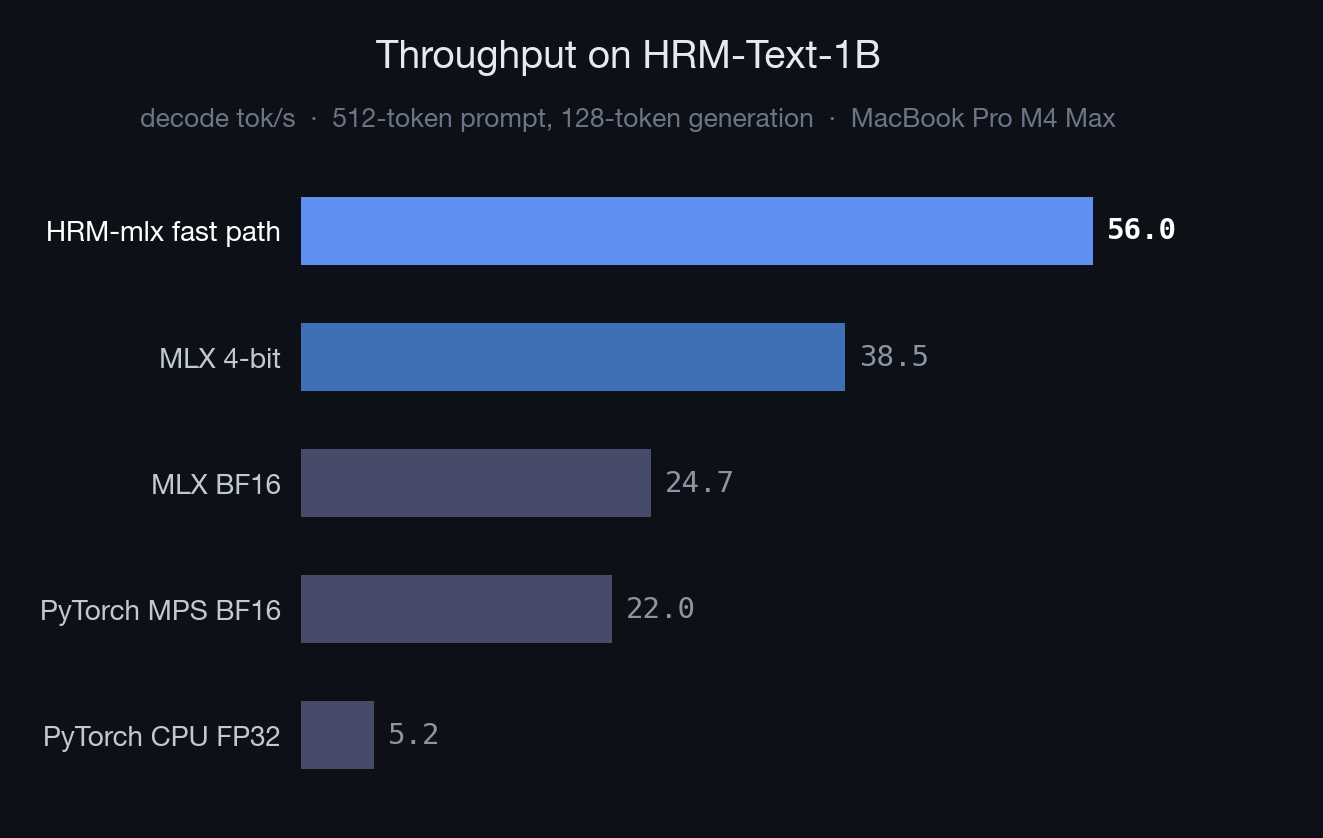
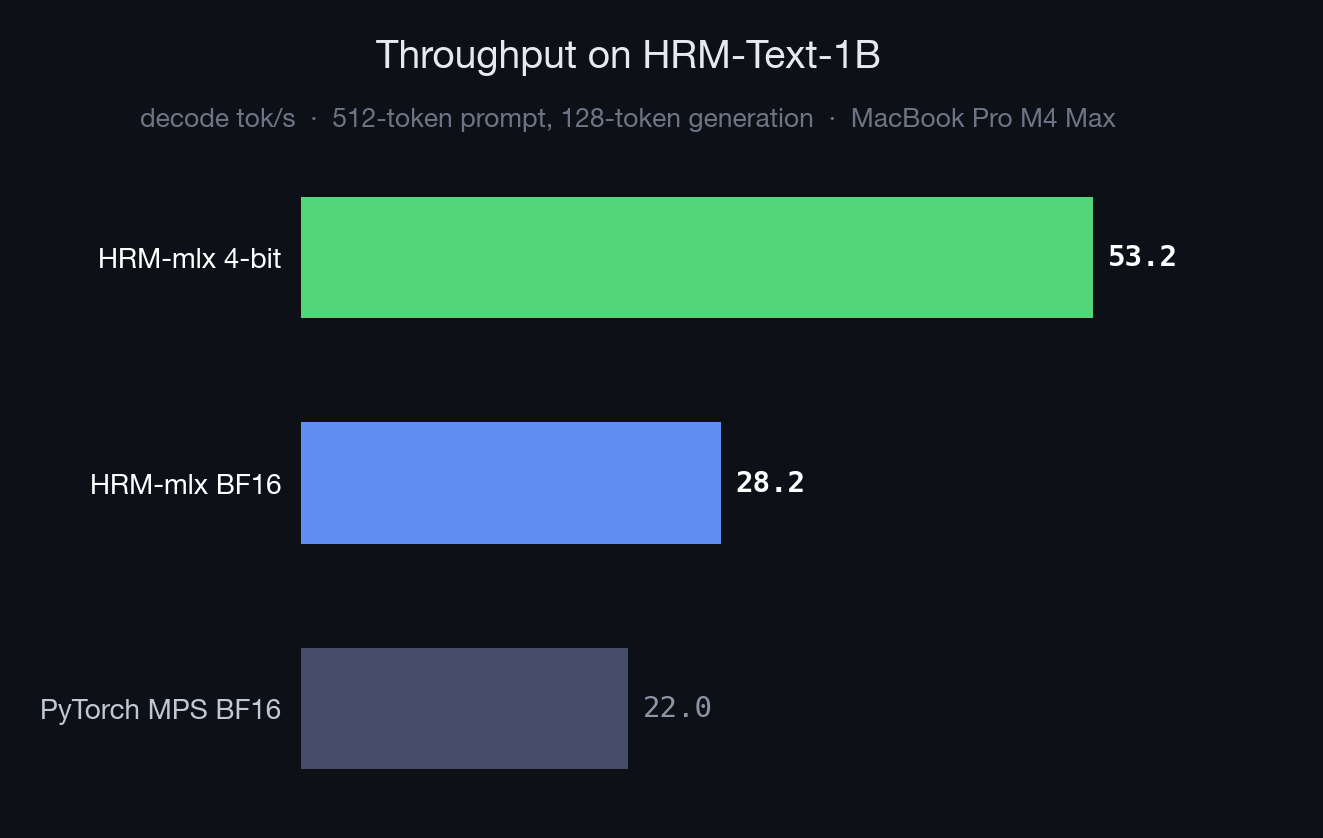
Refresh MPS vs HRM-mlx marketing assets

diff --git a/marketing/tools/capture_demo_outputs.py b/marketing/tools/capture_demo_outputs.py
@@ -19,6 +19,61 @@ PROMPT_TEXT = (
 )
 HRM_PROMPT = f"<|im_start|><|quad_end|><|object_ref_end|>{PROMPT_TEXT}<|im_end|>"
 FINAL_RE = re.compile(r"(final answer|### final|\\boxed|boxed\{)", re.IGNORECASE)
+VERIFIED_VIDEO_TEXT = r"""
+To differentiate \( f(x) = \frac{x^2}{\ln(x)} \), use the quotient rule and then verify the result with the product rule.
+
+First set
+\[
+u(x)=x^2, \qquad v(x)=\ln(x).
+\]
+Then
+\[
+u'(x)=2x, \qquad v'(x)=\frac{1}{x}.
+\]
+
+The quotient rule gives
+\[
+f'(x)=\frac{u'(x)v(x)-u(x)v'(x)}{v(x)^2}.
+\]
+Substitute the pieces:
+\[
+f'(x)=\frac{(2x)\ln(x)-x^2\left(\frac{1}{x}\right)}{(\ln(x))^2}.
+\]
+Simplify the numerator:
+\[
+(2x)\ln(x)-x^2\left(\frac{1}{x}\right)=2x\ln(x)-x.
+\]
+Factor out \(x\):
+\[
+2x\ln(x)-x=x(2\ln(x)-1).
+\]
+So the derivative is
+\[
+f'(x)=\frac{x(2\ln(x)-1)}{(\ln(x))^2}.
+\]
+
+As a cross-check, rewrite the original function as
+\[
+f(x)=x^2(\ln(x))^{-1}.
+\]
+Using the product rule,
+\[
+f'(x)=2x(\ln(x))^{-1}+x^2\left(-\frac{1}{x(\ln(x))^2}\right).
+\]
+That becomes
+\[
+f'(x)=\frac{2x}{\ln(x)}-\frac{x}{(\ln(x))^2}
+=\frac{2x\ln(x)-x}{(\ln(x))^2}
+=\frac{x(2\ln(x)-1)}{(\ln(x))^2}.
+\]
+
+The original function is defined for \(x>0\) and \(x\ne 1\), since \(\ln(x)\) must exist and cannot be zero.
+
+Final answer:
+\[
+\boxed{\frac{x(2\ln(x)-1)}{(\ln(x))^2}}
+\]
+""".strip()
 
 
 def looks_complete(text: str) -> bool:
@@ -154,9 +209,10 @@ def generate_mlx(
 
 def main() -> None:
     parser = argparse.ArgumentParser(description=__doc__)
-    parser.add_argument("--runtime", choices=("cpu", "mps", "mlx", "video", "all"), default="video")
+    parser.add_argument("--runtime", choices=("cpu", "mps", "bf16", "q4", "video", "all"), default="video")
     parser.add_argument("--hf-model-dir", type=Path, default=ROOT / "exports" / "hrm-text-1b-hf")
-    parser.add_argument("--mlx-model-dir", type=Path, default=ROOT / "exports" / "hrm-text-1b-mlx-mxfp4")
+    parser.add_argument("--mlx-bf16-model-dir", type=Path, default=ROOT / "exports" / "hrm-text-1b-hf")
+    parser.add_argument("--mlx-q4-model-dir", type=Path, default=ROOT / "exports" / "hrm-text-1b-mlx-mxfp4")
     parser.add_argument(
         "--safety-max-tokens",
         type=int,
@@ -165,6 +221,12 @@ def main() -> None:
     )
     parser.add_argument("--temperature", type=float, default=0.7)
     args = parser.parse_args()
+
+    if args.runtime == "video":
+        write_capture("pytorch_mps.json", "PyTorch MPS", 21.99, VERIFIED_VIDEO_TEXT)
+        write_capture("hrm_mlx_bf16.json", "HRM-mlx BF16", 28.21, VERIFIED_VIDEO_TEXT)
+        write_capture("hrm_mlx_4bit.json", "HRM-mlx 4-bit", 53.19, VERIFIED_VIDEO_TEXT)
+        return
 
     if args.runtime in ("cpu", "all"):
         text = generate_torch(
@@ -188,14 +250,23 @@ def main() -> None:
         )
         write_capture("pytorch_mps.json", "PyTorch MPS", 21.99, text)
 
-    if args.runtime in ("mlx", "video", "all"):
+    if args.runtime in ("bf16", "video", "all"):
         text = generate_mlx(
-            args.mlx_model_dir,
+            args.mlx_bf16_model_dir,
             safety_max_tokens=args.safety_max_tokens,
             temperature=args.temperature,
             seed=303,
         )
-        write_capture("hrm_mlx_fast.json", "HRM-mlx", 55.96, text)
+        write_capture("hrm_mlx_bf16.json", "HRM-mlx BF16", 28.21, text)
+
+    if args.runtime in ("q4", "video", "all"):
+        text = generate_mlx(
+            args.mlx_q4_model_dir,
+            safety_max_tokens=args.safety_max_tokens,
+            temperature=args.temperature,
+            seed=404,
+        )
+        write_capture("hrm_mlx_4bit.json", "HRM-mlx 4-bit", 53.19, text)
 
 
 if __name__ == "__main__":

diff --git a/marketing/tools/generate_demo_video.py b/marketing/tools/generate_demo_video.py
@@ -52,40 +52,40 @@ def load_capture(filename: str) -> tuple[str, float]:
     return data["text"], float(data["tps"])
 
 
-cpu_text, cpu_tps = load_capture("pytorch_cpu.json")
 mps_text, mps_tps = load_capture("pytorch_mps.json")
-hrm_text, hrm_tps = load_capture("hrm_mlx_fast.json")
+bf16_text, bf16_tps = load_capture("hrm_mlx_bf16.json")
+q4_text, q4_tps = load_capture("hrm_mlx_4bit.json")
 
 FRAMEWORKS = [
     {
-        "name": "PyTorch CPU",
-        "tps": cpu_tps,
-        "speed_color": RED,
-        "text": cpu_text,
-        "model_label": "HRM-Text-1B · FP32",
-        "header_color": (60, 30, 30),
-        "header_border": (120, 50, 50),
-        "tag": None,
-    },
-    {
-        "name": "PyTorch MPS",
+        "name": "PyTorch MPS BF16",
         "tps": mps_tps,
         "speed_color": YELLOW,
         "text": mps_text,
-        "model_label": "HRM-Text-1B · BF16",
+        "model_label": "HRM-Text-1B · bfloat16",
         "header_color": (50, 45, 20),
         "header_border": (100, 90, 30),
         "tag": None,
     },
     {
-        "name": "HRM-mlx",
-        "tps": hrm_tps,
+        "name": "HRM-mlx BF16",
+        "tps": bf16_tps,
+        "speed_color": BLUE,
+        "text": bf16_text,
+        "model_label": "BF16 + Metal fast path",
+        "header_color": (25, 40, 65),
+        "header_border": (70, 110, 180),
+        "tag": f"{bf16_tps / mps_tps:.1f}x VS MPS",
+    },
+    {
+        "name": "HRM-mlx 4-bit",
+        "tps": q4_tps,
         "speed_color": GREEN,
-        "text": hrm_text,
+        "text": q4_text,
         "model_label": "MXFP4 + Metal SwiGLU",
         "header_color": (25, 50, 35),
         "header_border": (50, 120, 70),
-        "tag": f"{hrm_tps / cpu_tps:.1f}x VS CPU",
+        "tag": f"{q4_tps / mps_tps:.1f}x VS MPS",
     },
 ]
 

diff --git a/scripts/generate_benchmark_chart.py b/scripts/generate_benchmark_chart.py
@@ -15,11 +15,9 @@ HISTORY = ROOT / "benchmarks" / "metrics_history.csv"
 OUTPUT = ROOT / "assets" / "benchmark-chart.png"
 
 COLORS = {
-    "PyTorch CPU": "#454b68",
-    "PyTorch MPS": "#454b68",
-    "MLX baseline": "#454b68",
-    "MLX 4-bit": "#3f6fb5",
-    "HRM-mlx fast path": "#5f8ff0",
+    "PyTorch MPS BF16": "#454b68",
+    "HRM-mlx BF16": "#5f8ff0",
+    "HRM-mlx 4-bit": "#54d57a",
 }
 
 
@@ -32,26 +30,15 @@ def load_entries() -> list[tuple[str, float, str]]:
             decode_tok_s = float(row["decode_tok_s"])
 
             if "mxfp4" in mode:
-                label = "HRM-mlx fast path"
-            elif mode.startswith("4bit"):
-                label = "MLX 4-bit"
-            elif runtime == "MLX":
-                label = "MLX BF16"
+                label = "HRM-mlx 4-bit"
+            elif runtime == "HRM-mlx":
+                label = "HRM-mlx BF16"
             elif runtime == "PyTorch MPS":
                 label = "PyTorch MPS BF16"
             else:
-                label = "PyTorch CPU FP32"
+                continue
 
-            color_key = (
-                "HRM-mlx fast path"
-                if label == "HRM-mlx fast path"
-                else "MLX 4-bit"
-                if label == "MLX 4-bit"
-                else "MLX baseline"
-                if label == "MLX BF16"
-                else runtime
-            )
-            entries.append((label, decode_tok_s, COLORS[color_key]))
+            entries.append((label, decode_tok_s, COLORS[label]))
 
     return sorted(entries, key=lambda entry: entry[1], reverse=True)
 
@@ -76,7 +63,7 @@ fig.subplots_adjust(left=0.30, right=0.90, top=0.83, bottom=0.08)
 bars = ax.barh(range(len(entries)), values, height=0.54, color=colors, edgecolor="none")
 
 for bar, label, val in zip(bars, labels, values):
-    is_ours = label == "HRM-mlx fast path"
+    is_ours = label.startswith("HRM-mlx")
     ax.text(
         val + 1.0,
         bar.get_y() + bar.get_height() / 2,
@@ -91,7 +78,7 @@ for bar, label, val in zip(bars, labels, values):
 ax.set_yticks(range(len(entries)))
 tick_labels = ax.set_yticklabels(labels, fontsize=10.0, color="#c0c8d4")
 for tick, label in zip(tick_labels, labels):
-    if label == "HRM-mlx fast path":
+    if label.startswith("HRM-mlx"):
         tick.set_color("#ffffff")
         tick.set_fontweight("bold")
 

diff --git a/README.md b/README.md
@@ -12,13 +12,11 @@ Apple Silicon inference for **HRM-Text-1B**. Native MLX, hosted 4-bit weights, a
 
 HRM-Text-1B on MacBook Pro M4 Max, 32-core GPU:
 
-| Runtime | tok/s | vs CPU |
+| Runtime | tok/s | vs MPS |
 |---|---:|---:|
-| PyTorch CPU FP32 | 5.2 | 1.0x |
-| PyTorch MPS BF16 | 22.0 | 4.3x |
-| MLX BF16 | 24.7 | 4.8x |
-| MLX 4-bit | 38.5 | 7.5x |
-| **HRM-mlx fast path** | **56.0** | **10.9x** |
+| PyTorch MPS BF16 | 22.0 | 1.0x |
+| HRM-mlx BF16 | 28.2 | 1.3x |
+| **HRM-mlx 4-bit** | **53.2** | **2.4x** |
 
 > Benchmark shape: 512 prompt tokens, 128 generated tokens. Absolute numbers vary by chip; single-stream decode speed is the useful comparison.
 
@@ -89,7 +87,7 @@ MLX does not ship an HRM-Text runtime. This repo adds the pieces needed to make 
 - **MLX fast paths** for RMSNorm, RoPE, and scaled dot-product attention
 - **Persisted MXFP4 weights** so startup does not re-quantize the full model
 - **Custom Metal SwiGLU activation** for a small decode win on top of the larger MLX/quantized path
-- **Profiling and comparison tools** for MLX, PyTorch MPS, and CPU baselines
+- **Profiling and comparison tools** for HRM-mlx and PyTorch MPS baselines
 
 ## Useful commands
 
@@ -111,7 +109,7 @@ python -m benchmarks.compare_quantized_decode --bf16-model-dir exports/hrm-text-
 
 HRM-Text-1B is a base reasoning model, not a polished chat assistant. The 4-bit checkpoint matched BF16 on a small qualitative math/reasoning check, but it has not been run through a formal eval suite. Quantization can also change answer length and style because small logit-rank flips early in greedy decoding send the model down a different response path.
 
-Marketing assets are reproducible: the chart comes from `benchmarks/metrics_history.csv`, and the demo video is rendered from verified transcripts in `marketing/assets/captures`.
+Marketing assets are reproducible: the chart comes from `benchmarks/metrics_history.csv`, and the demo video animates the same verified transcript at measured speeds from `marketing/assets/captures`.
 
 ## License
 